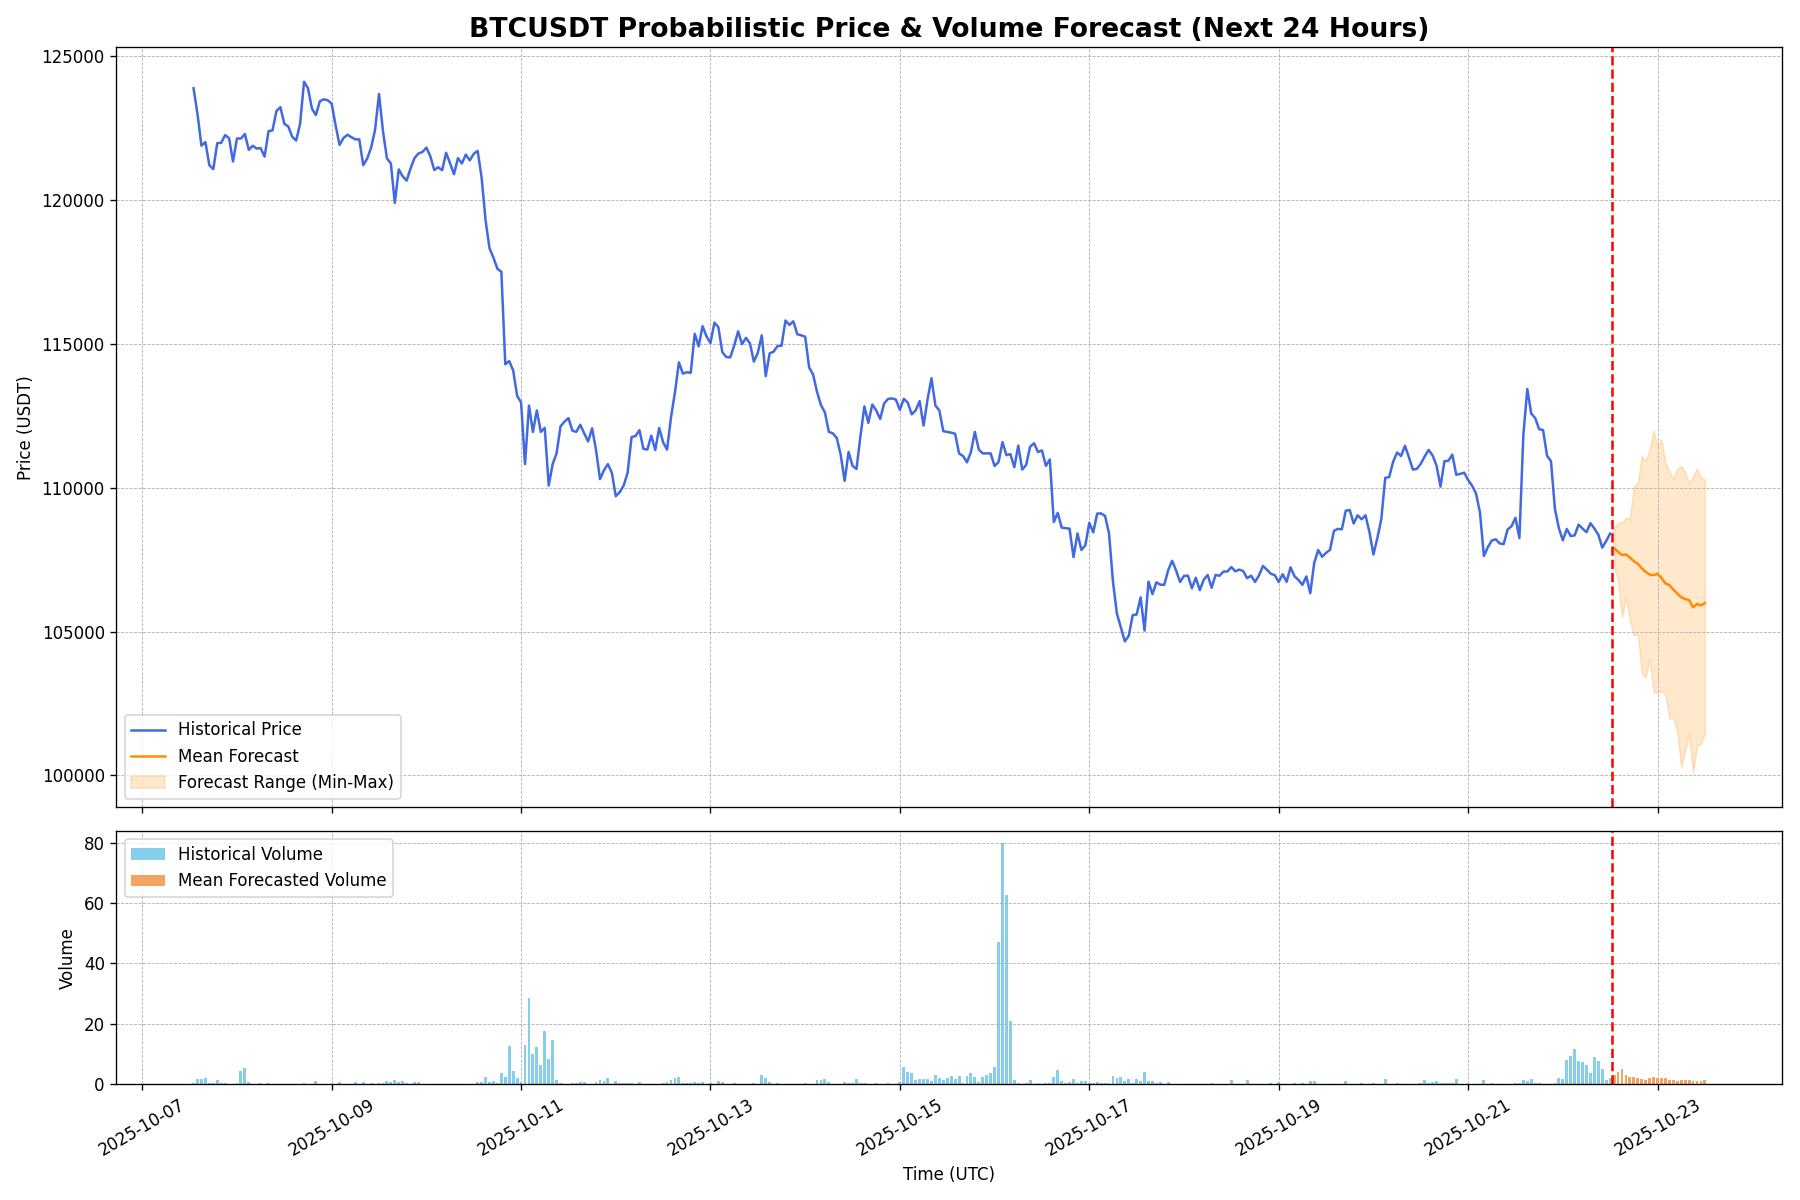
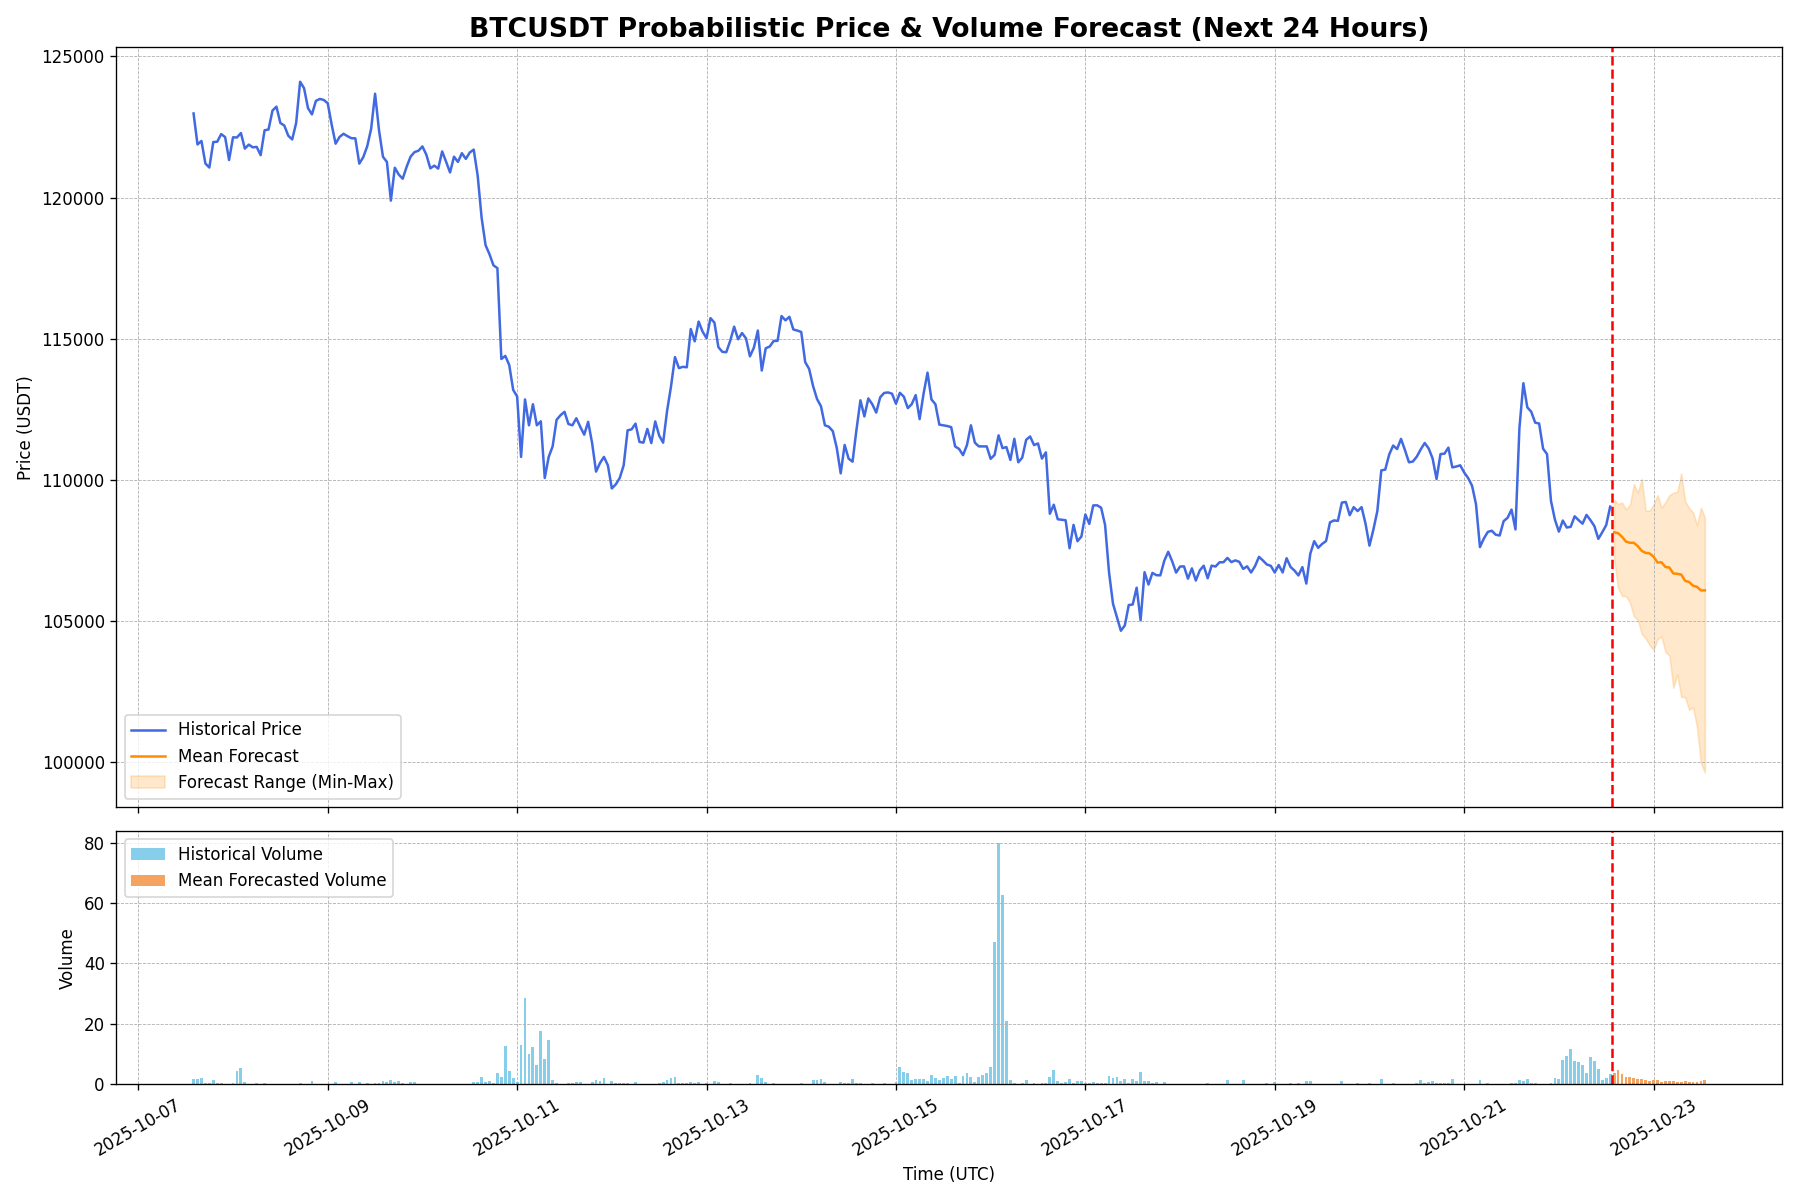
Auto-update forecast for 2025-10-22 14:10 UTC

diff --git a/index.html b/index.html
@@ -22,19 +22,19 @@
         <section id="live-dashboard">
             <h2>Live BTC/USDT Forecast Dashboard</h2>
             <div class="metadata">
-                <span>Last Updated (UTC): <strong id="update-time">2025-10-22 13:14:49</strong></span>
+                <span>Last Updated (UTC): <strong id="update-time">2025-10-22 14:10:59</strong></span>
                 <span>Data Source: Binance | Interval: 1-Hour</span>
             </div>
 
             <div class="metrics-container">
                 <div class="metric-card">
                     <h3>Upside Probability (Next 24h)</h3>
-                    <p class="metric-value" id="upside-prob">10.0%</p>
+                    <p class="metric-value" id="upside-prob">0.0%</p>
                     <div class="metric-desc">The model's confidence that the price in 24 hours will be higher than the last known price.</div>
                 </div>
                 <div class="metric-card">
                     <h3>Volatility Amplification (Next 24h)</h3>
-                    <p class="metric-value" id="vol-amp-prob">0.0%</p>
+                    <p class="metric-value" id="vol-amp-prob">13.3%</p>
                     <div class="metric-desc">The probability that predicted volatility over the next 24h will exceed recent historical volatility.</div>
                 </div>
             </div>
